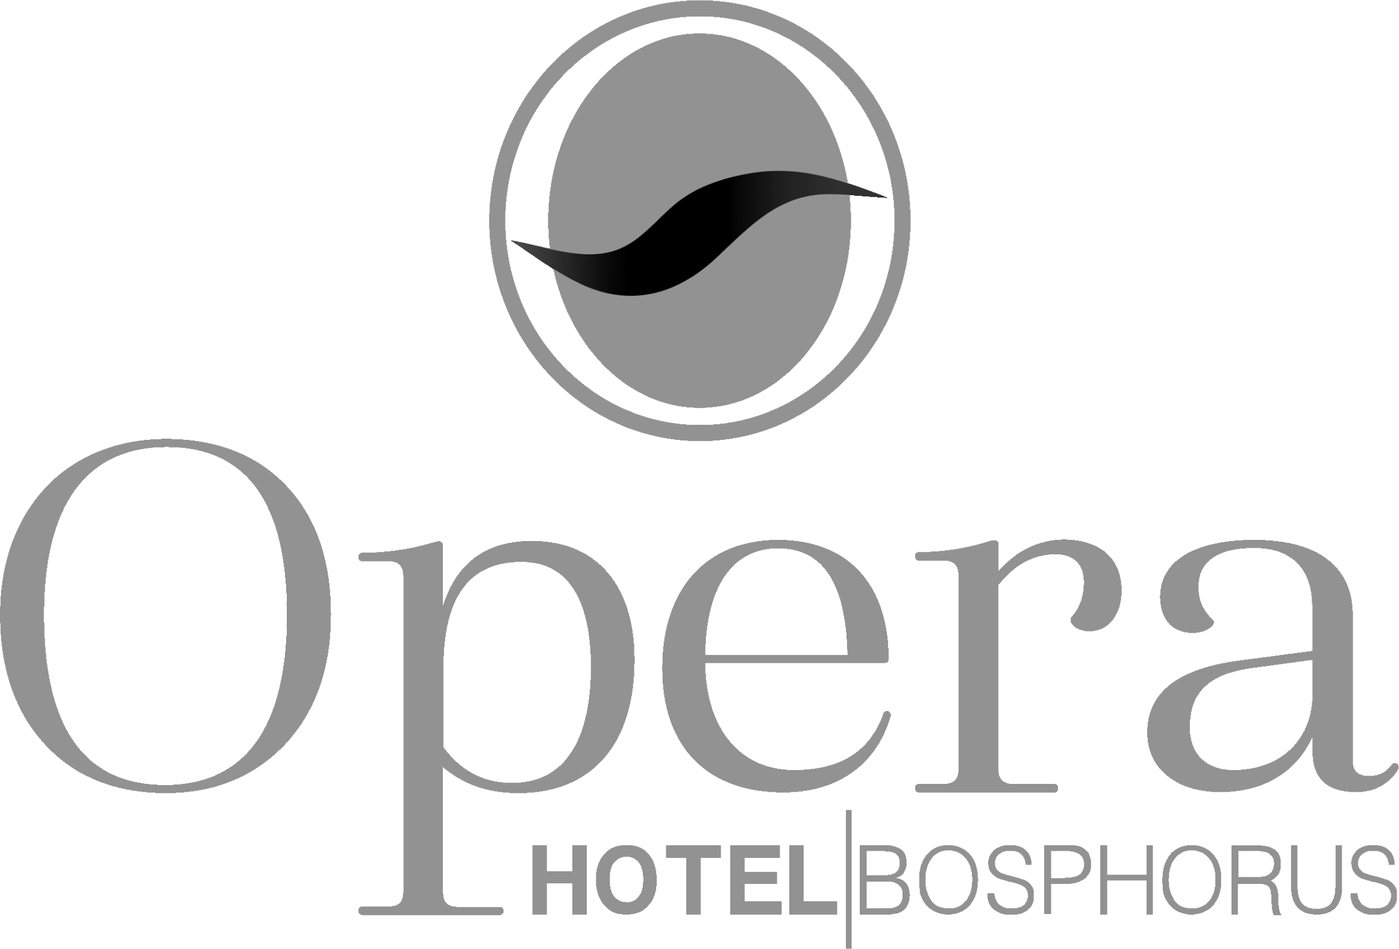
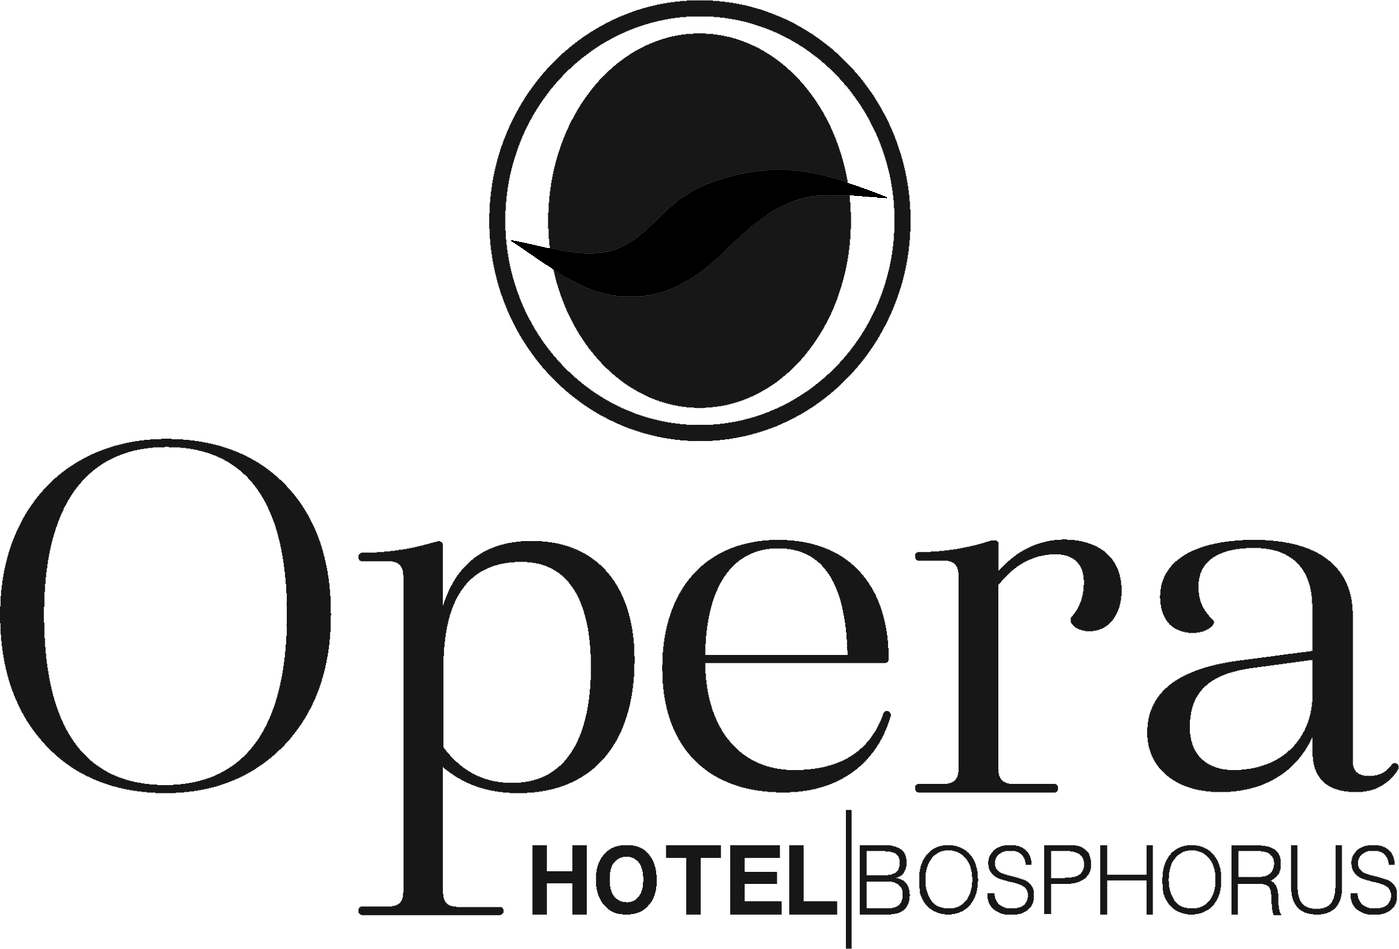
up

diff --git a/public/kruv.css b/public/kruv.css
@@ -1578,7 +1578,7 @@ body:has(.card:hover) .ticker {
 }
 .ideal-logo-2 { -webkit-mask-image: url("assets/clients/group-19.svg"); mask-image: url("assets/clients/group-19.svg"); }
 .ideal-logo-3 {
-  --ideal-logo-scale: 1.65;
+  --ideal-logo-scale: 1.32;
   -webkit-mask-image: url("assets/clients/jungleous.svg?v=3");
   mask-image: url("assets/clients/jungleous.svg?v=3");
 }
@@ -1600,8 +1600,8 @@ body:has(.card:hover) .ticker {
   height: auto;
   aspect-ratio: 800 / 280;
   max-height: 78%;
-  -webkit-mask-image: url("assets/clients/opera-hotel.png?v=3");
-  mask-image: url("assets/clients/opera-hotel.png?v=3");
+  -webkit-mask-image: url("assets/clients/opera-hotel.png?v=4");
+  mask-image: url("assets/clients/opera-hotel.png?v=4");
   -webkit-mask-size: contain;
   mask-size: contain;
 }
